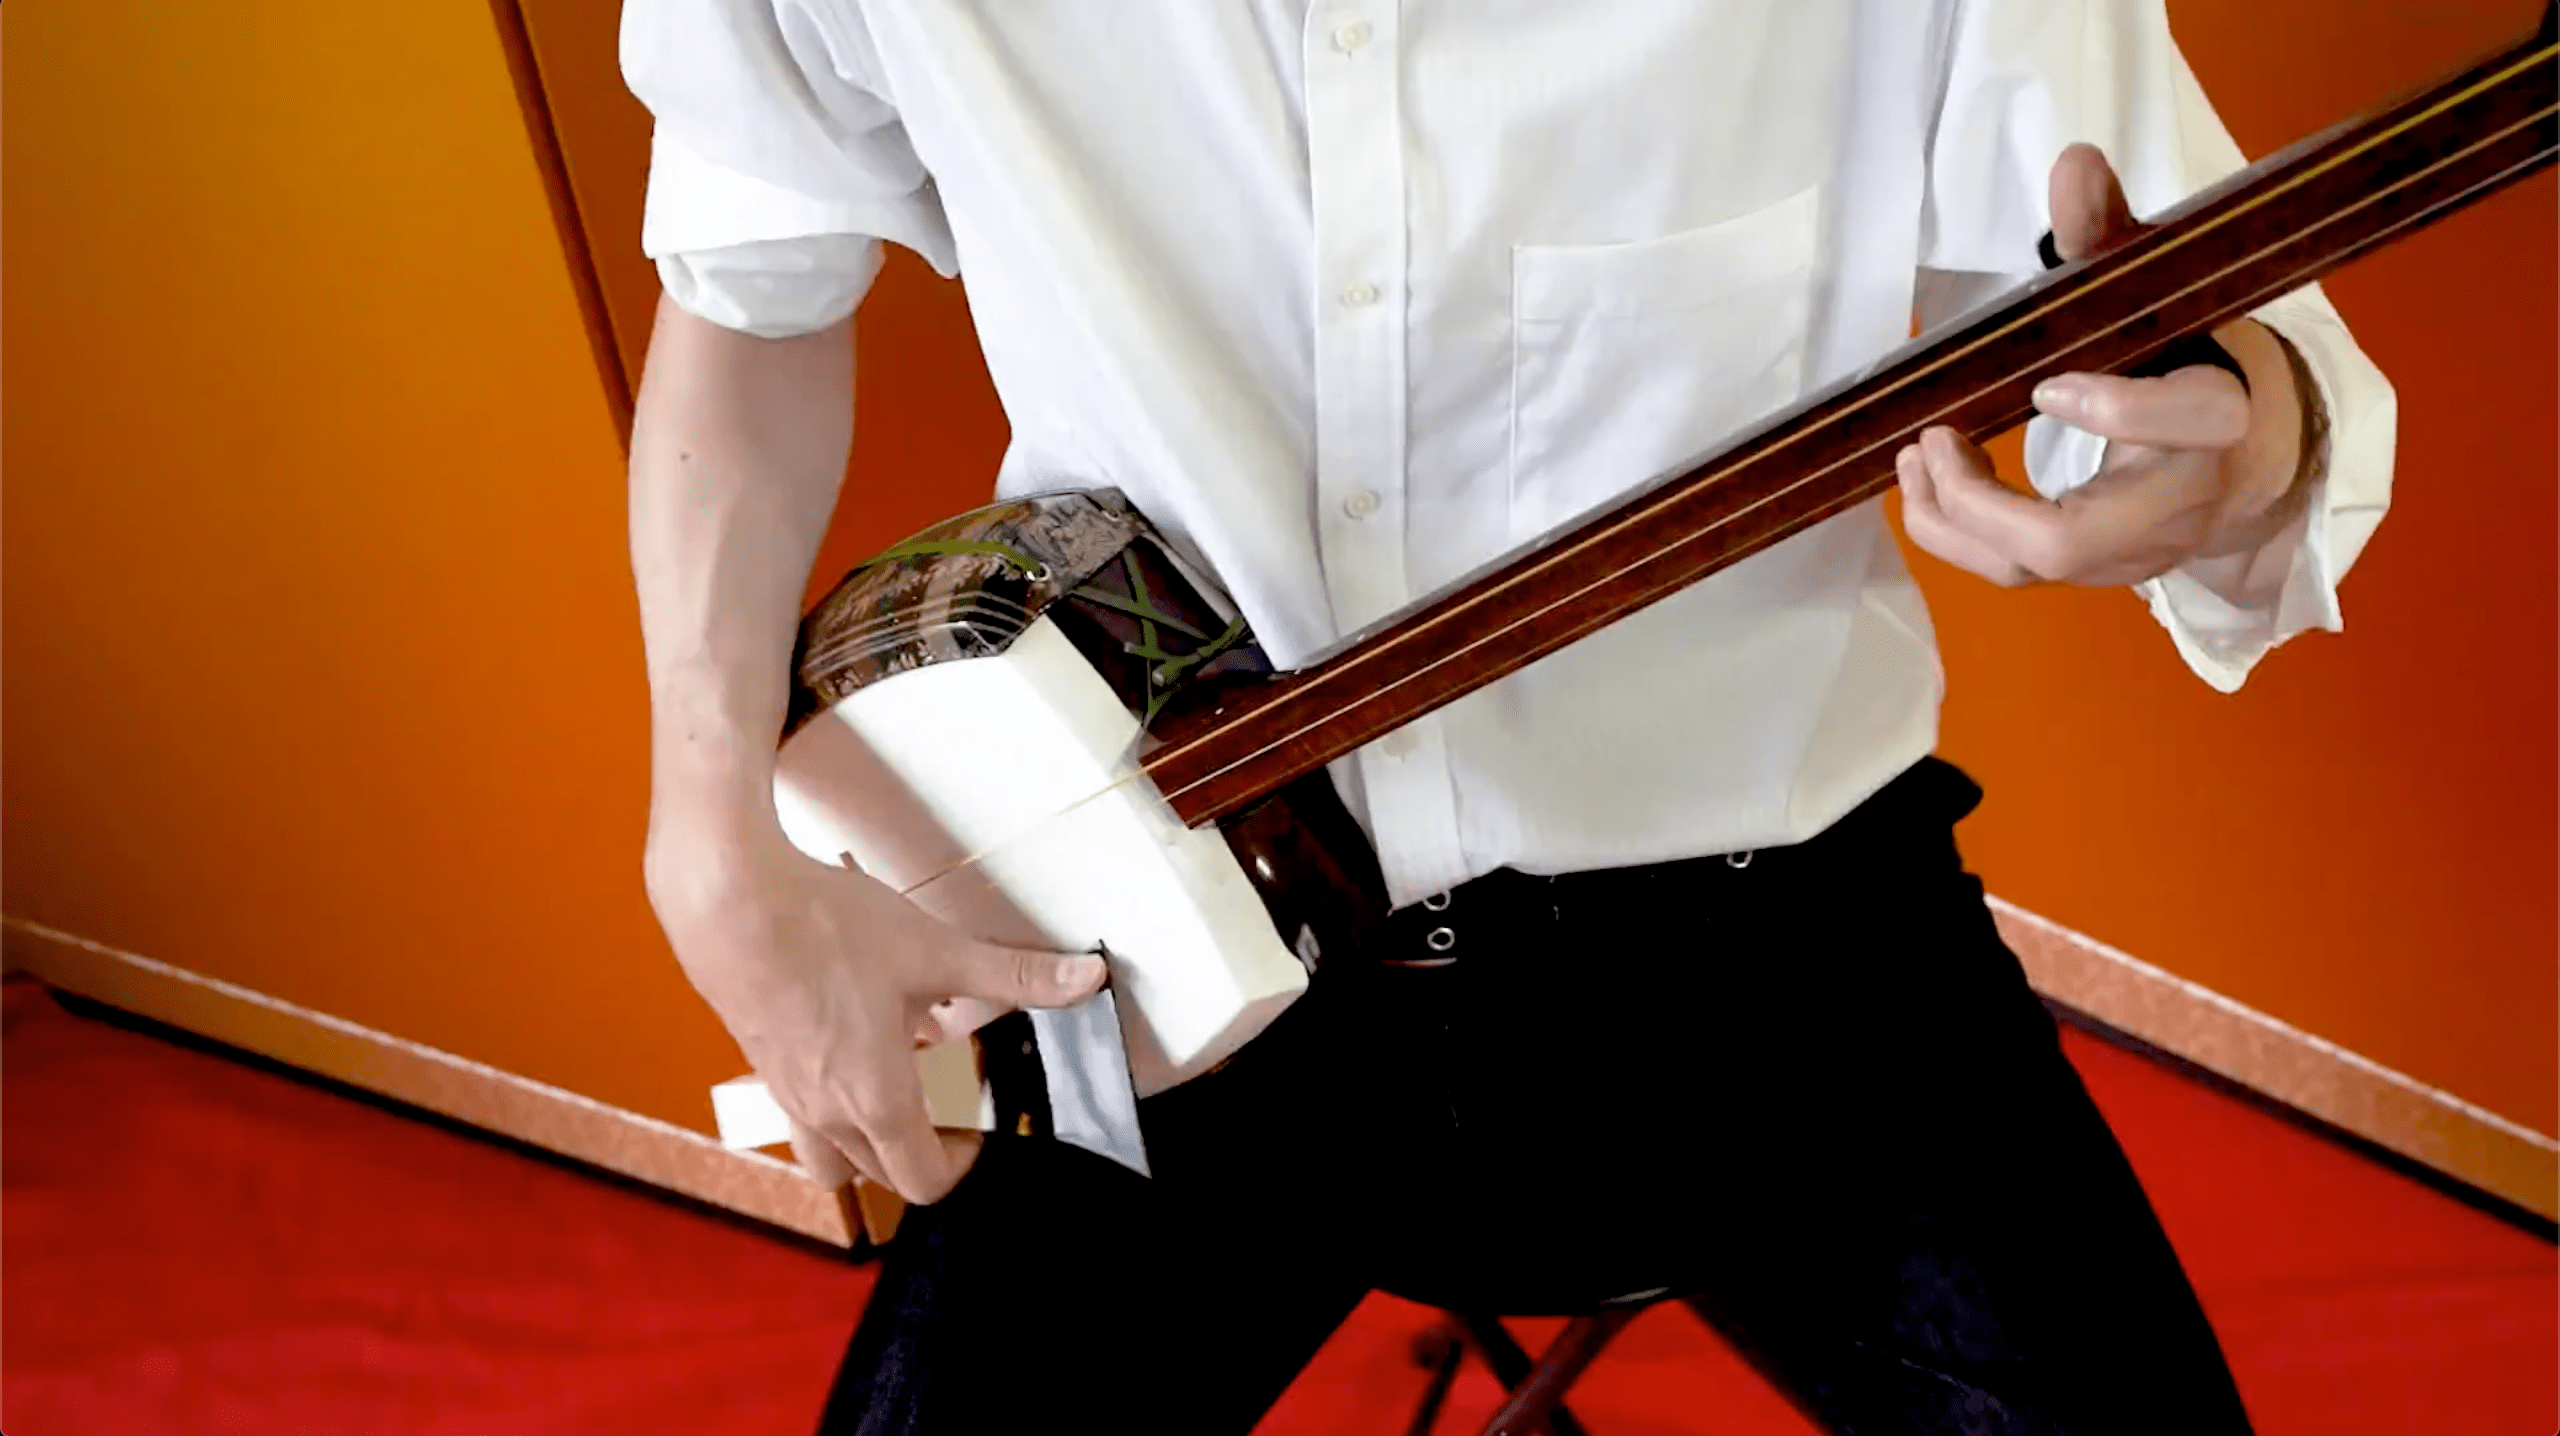
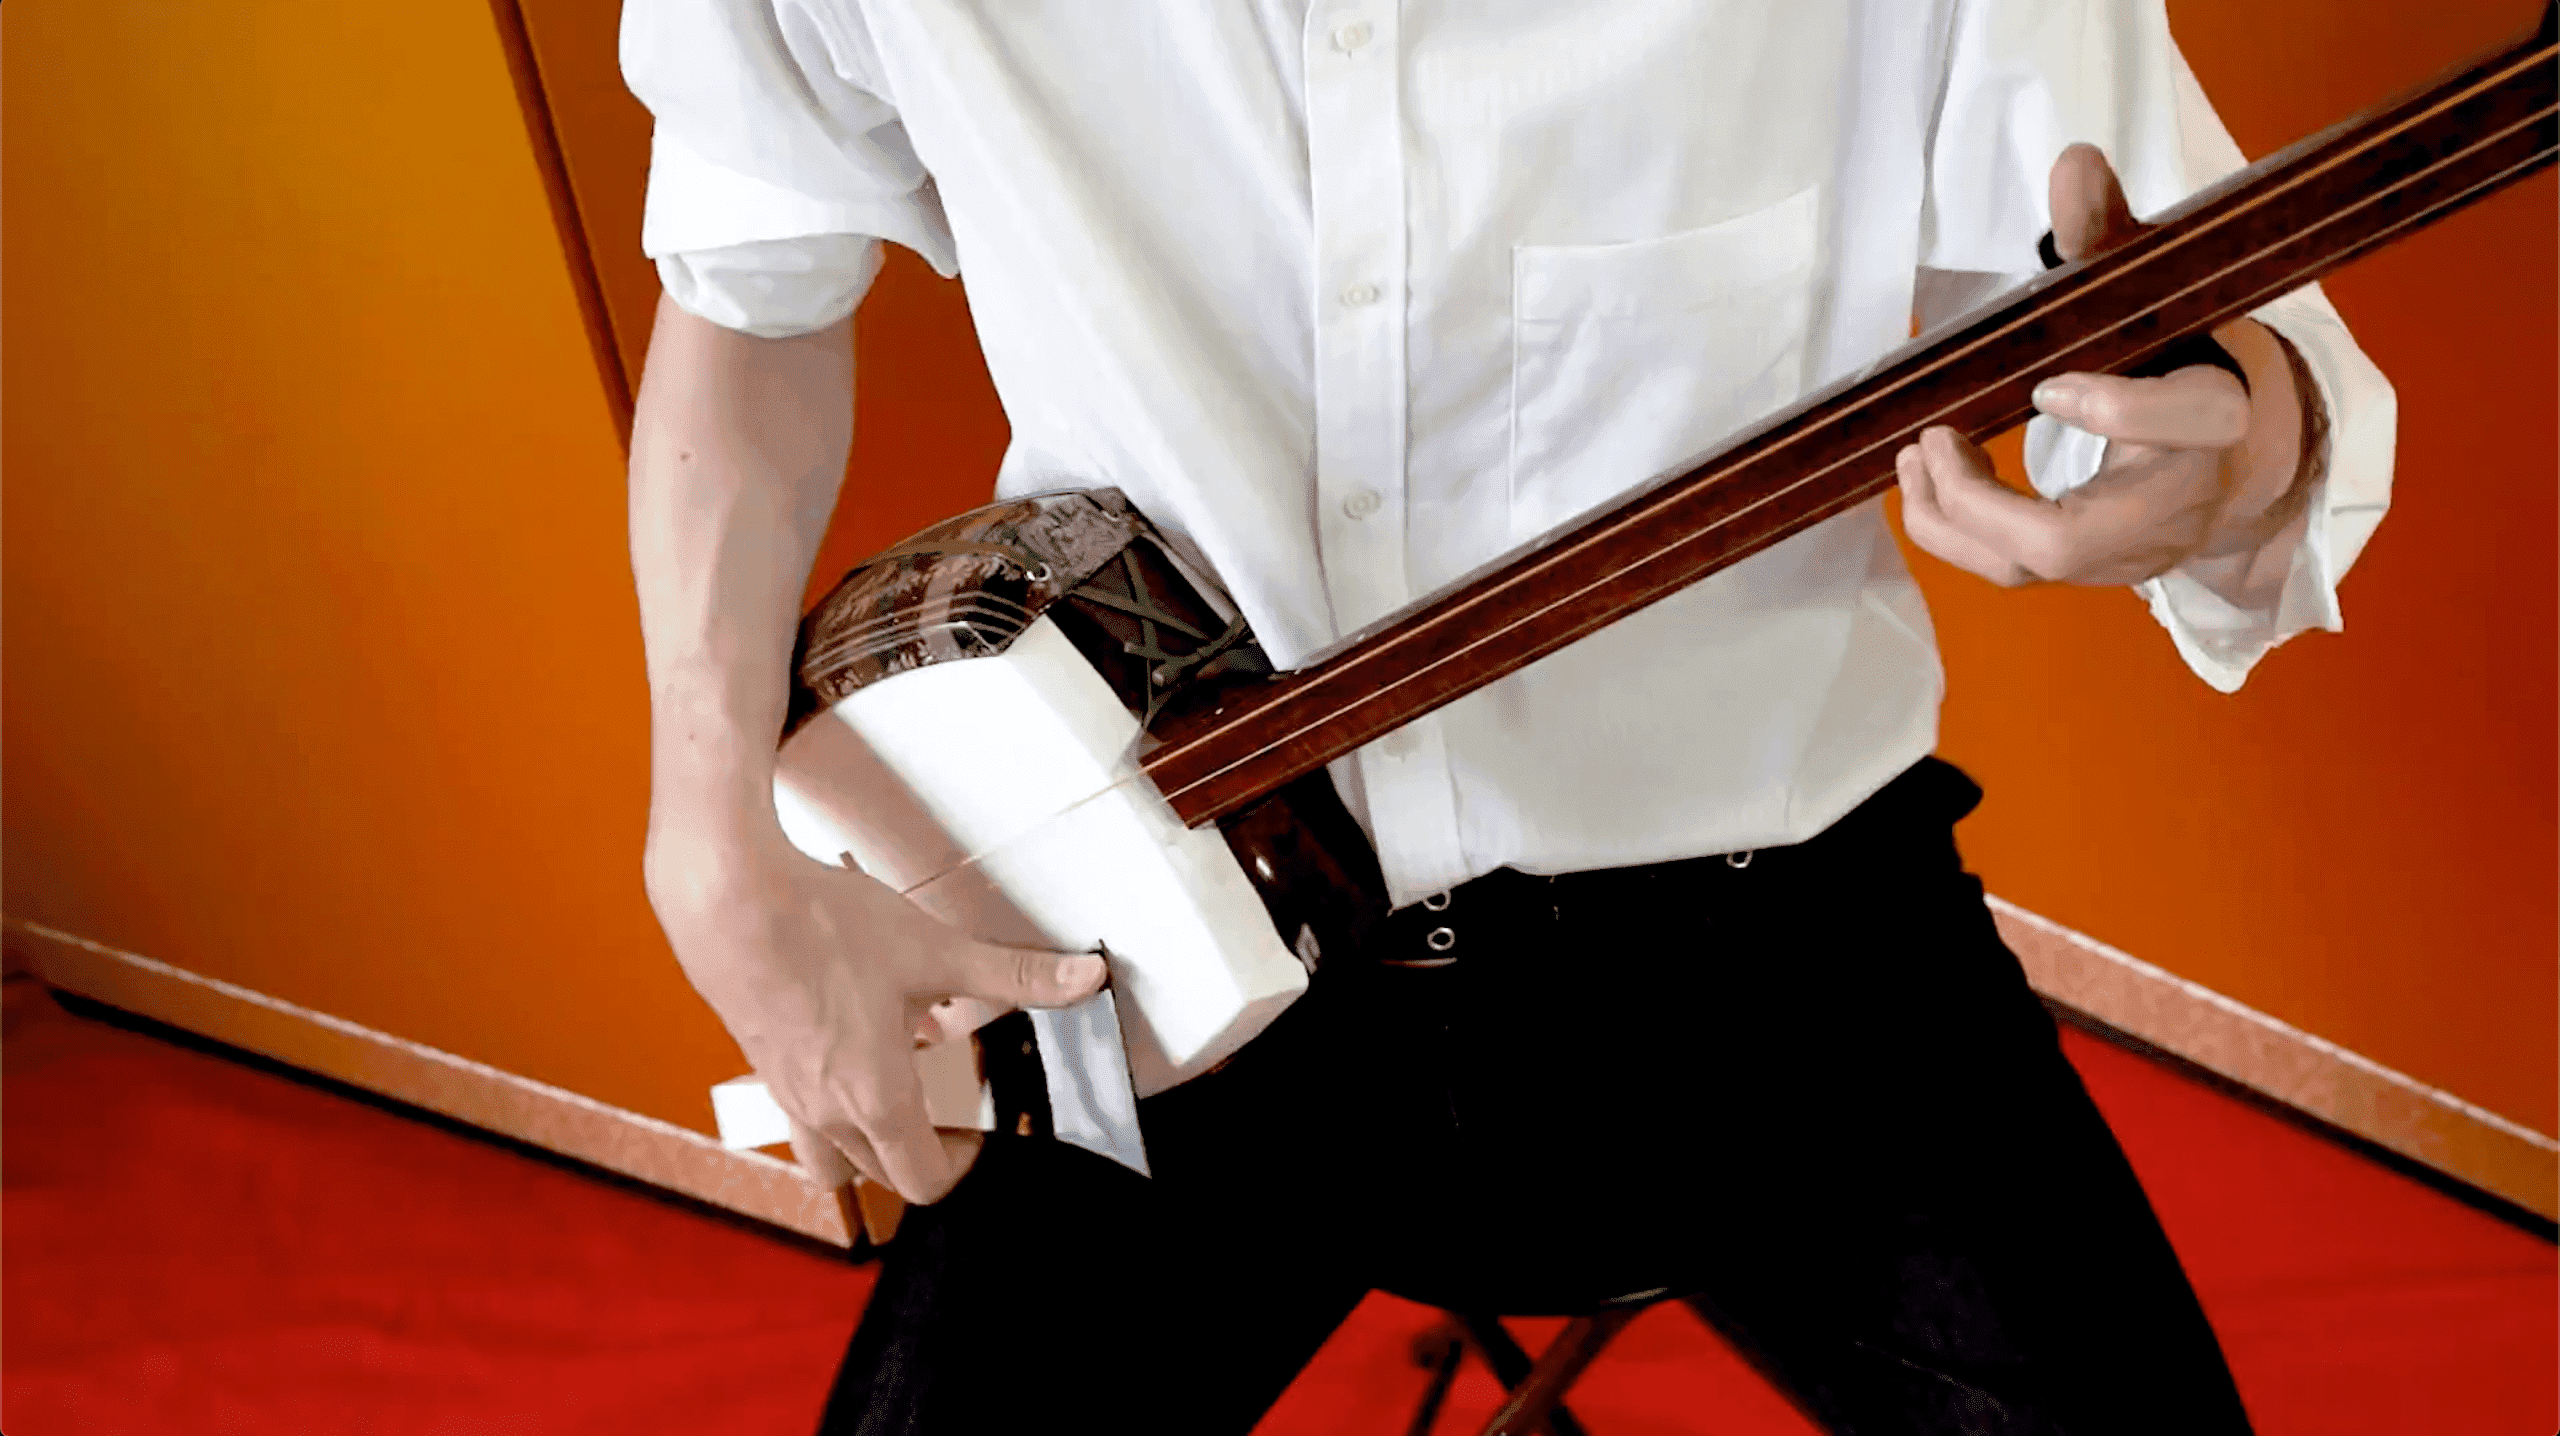
画像の圧縮

diff --git a/css/style.css b/css/style.css
@@ -568,7 +568,7 @@ video{
 	content: "\f04b";
 	font-weight:900;
 	color: #F8F4E6;
-	font-size: 70px;
+	font-size: 60px;
 	top: 50%;
 	left: 50%;
 	transform : translate(-50%,-50%);
@@ -584,7 +584,7 @@ video{
 }
 
 .yt_video:hover::before { /* ホバー時アイコンの色変える */
-	color:#32cd32;
+	color: #C7AE68;
 	transition:.5s;
 }
 /* history */
